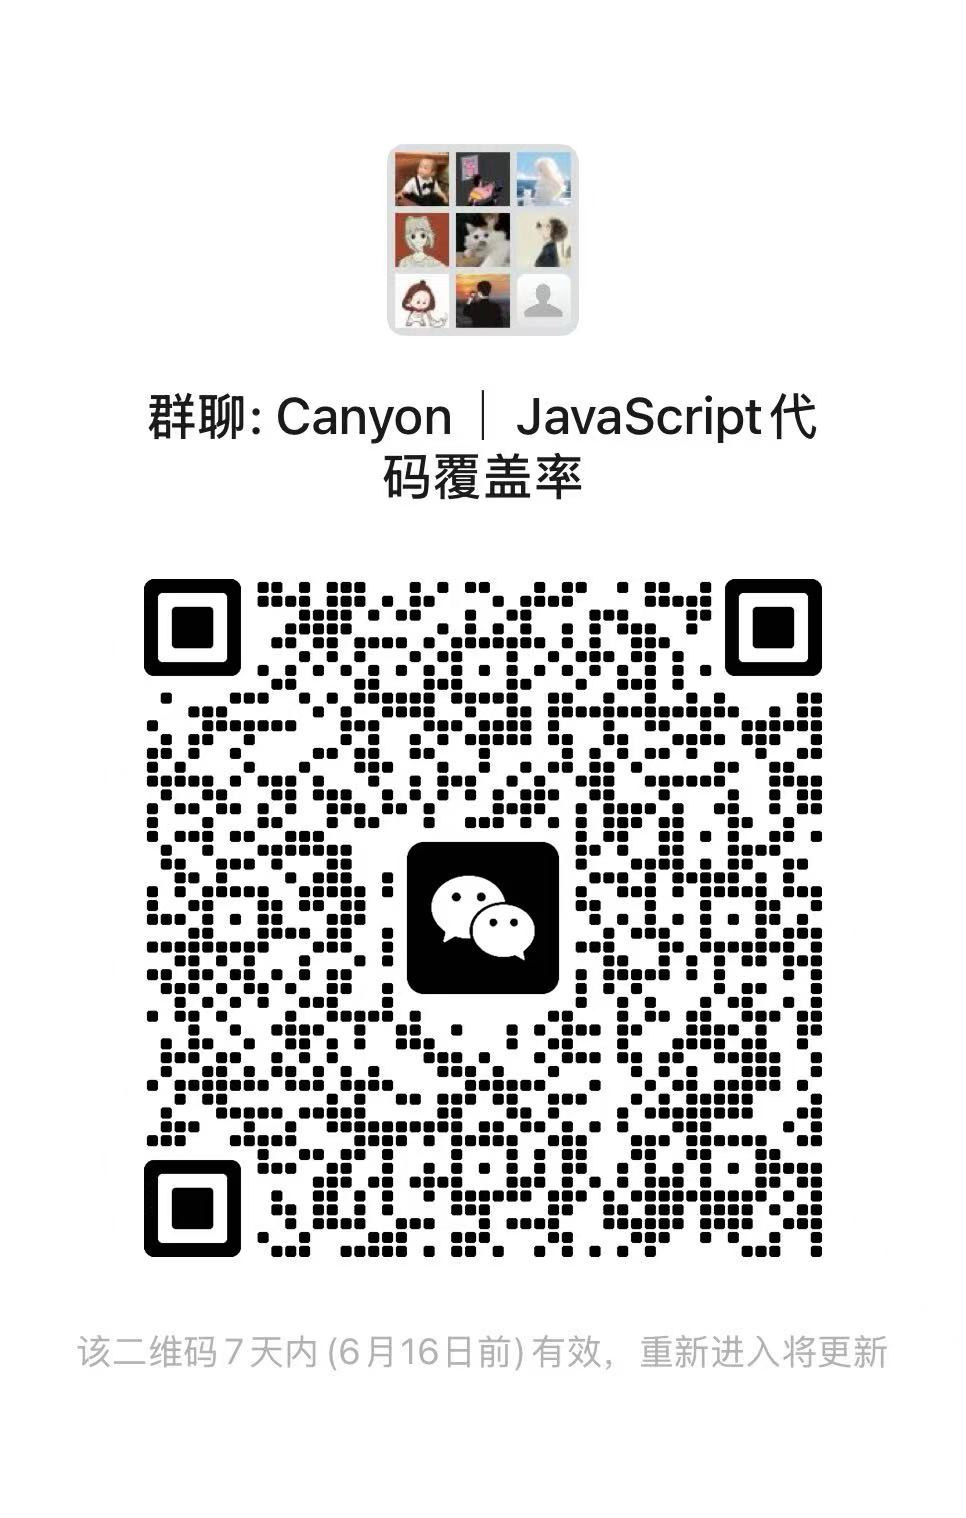
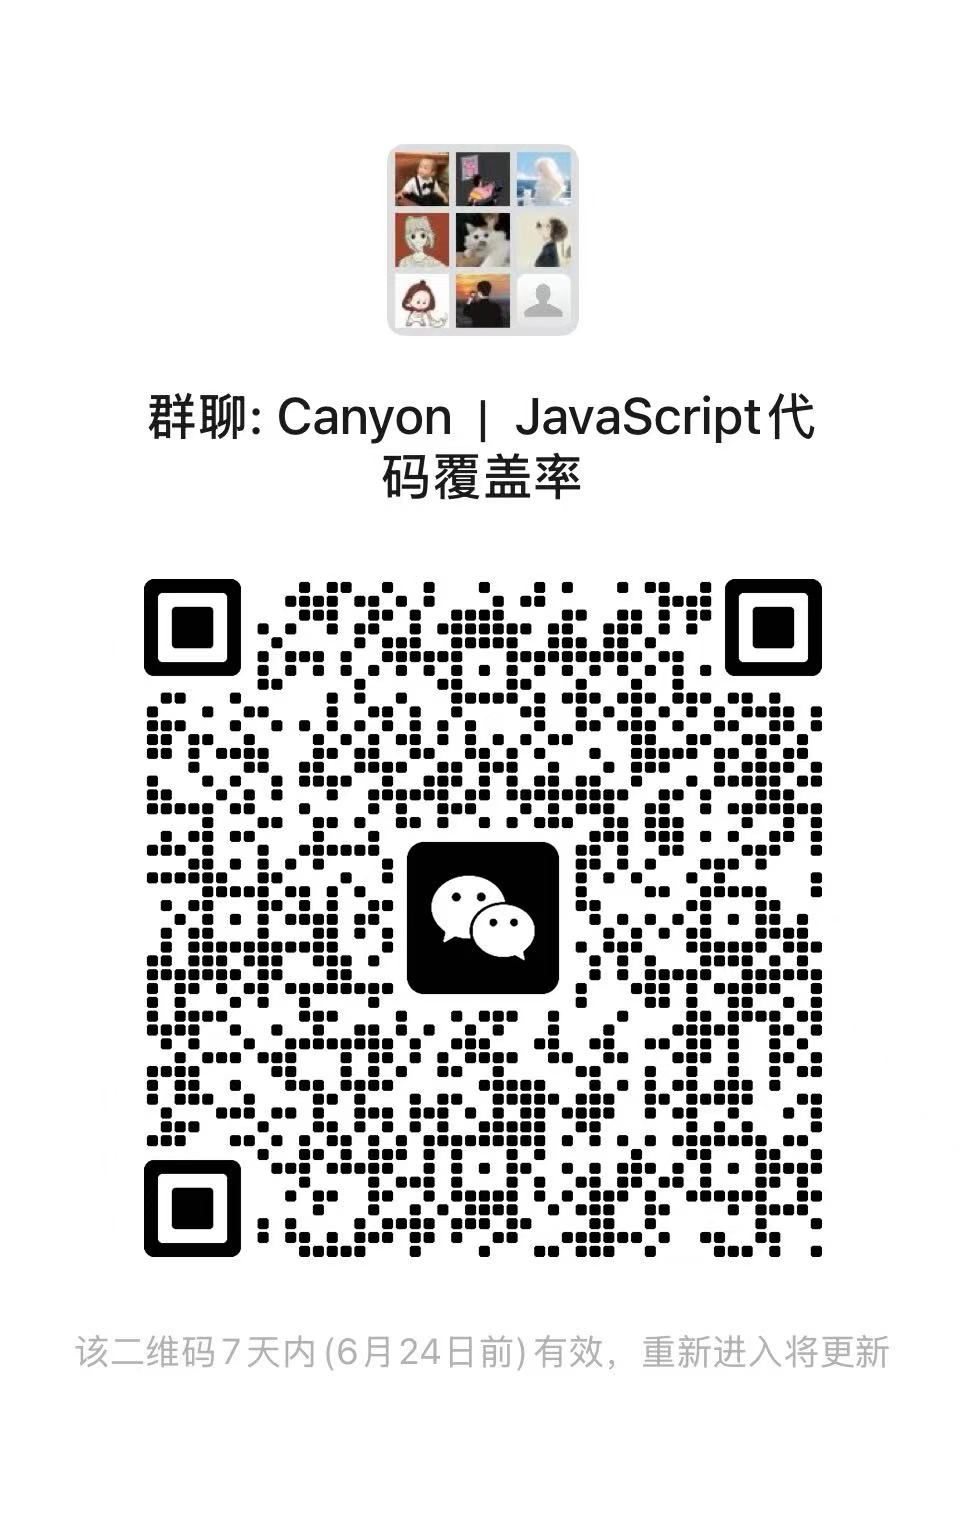
fix: update WeChat group screenshot in README files

diff --git a/README.md b/README.md
@@ -62,7 +62,7 @@ Canyon (pronounced /ˈkænjən/) is a JavaScript code coverage collection platfo
 
 ## WeChat Group
 
-<img src="./screenshots/wechat34.png" style="width: 200px"/>
+<img src="./screenshots/wechat35.png" style="width: 200px"/>
 
 ## Developing
 
